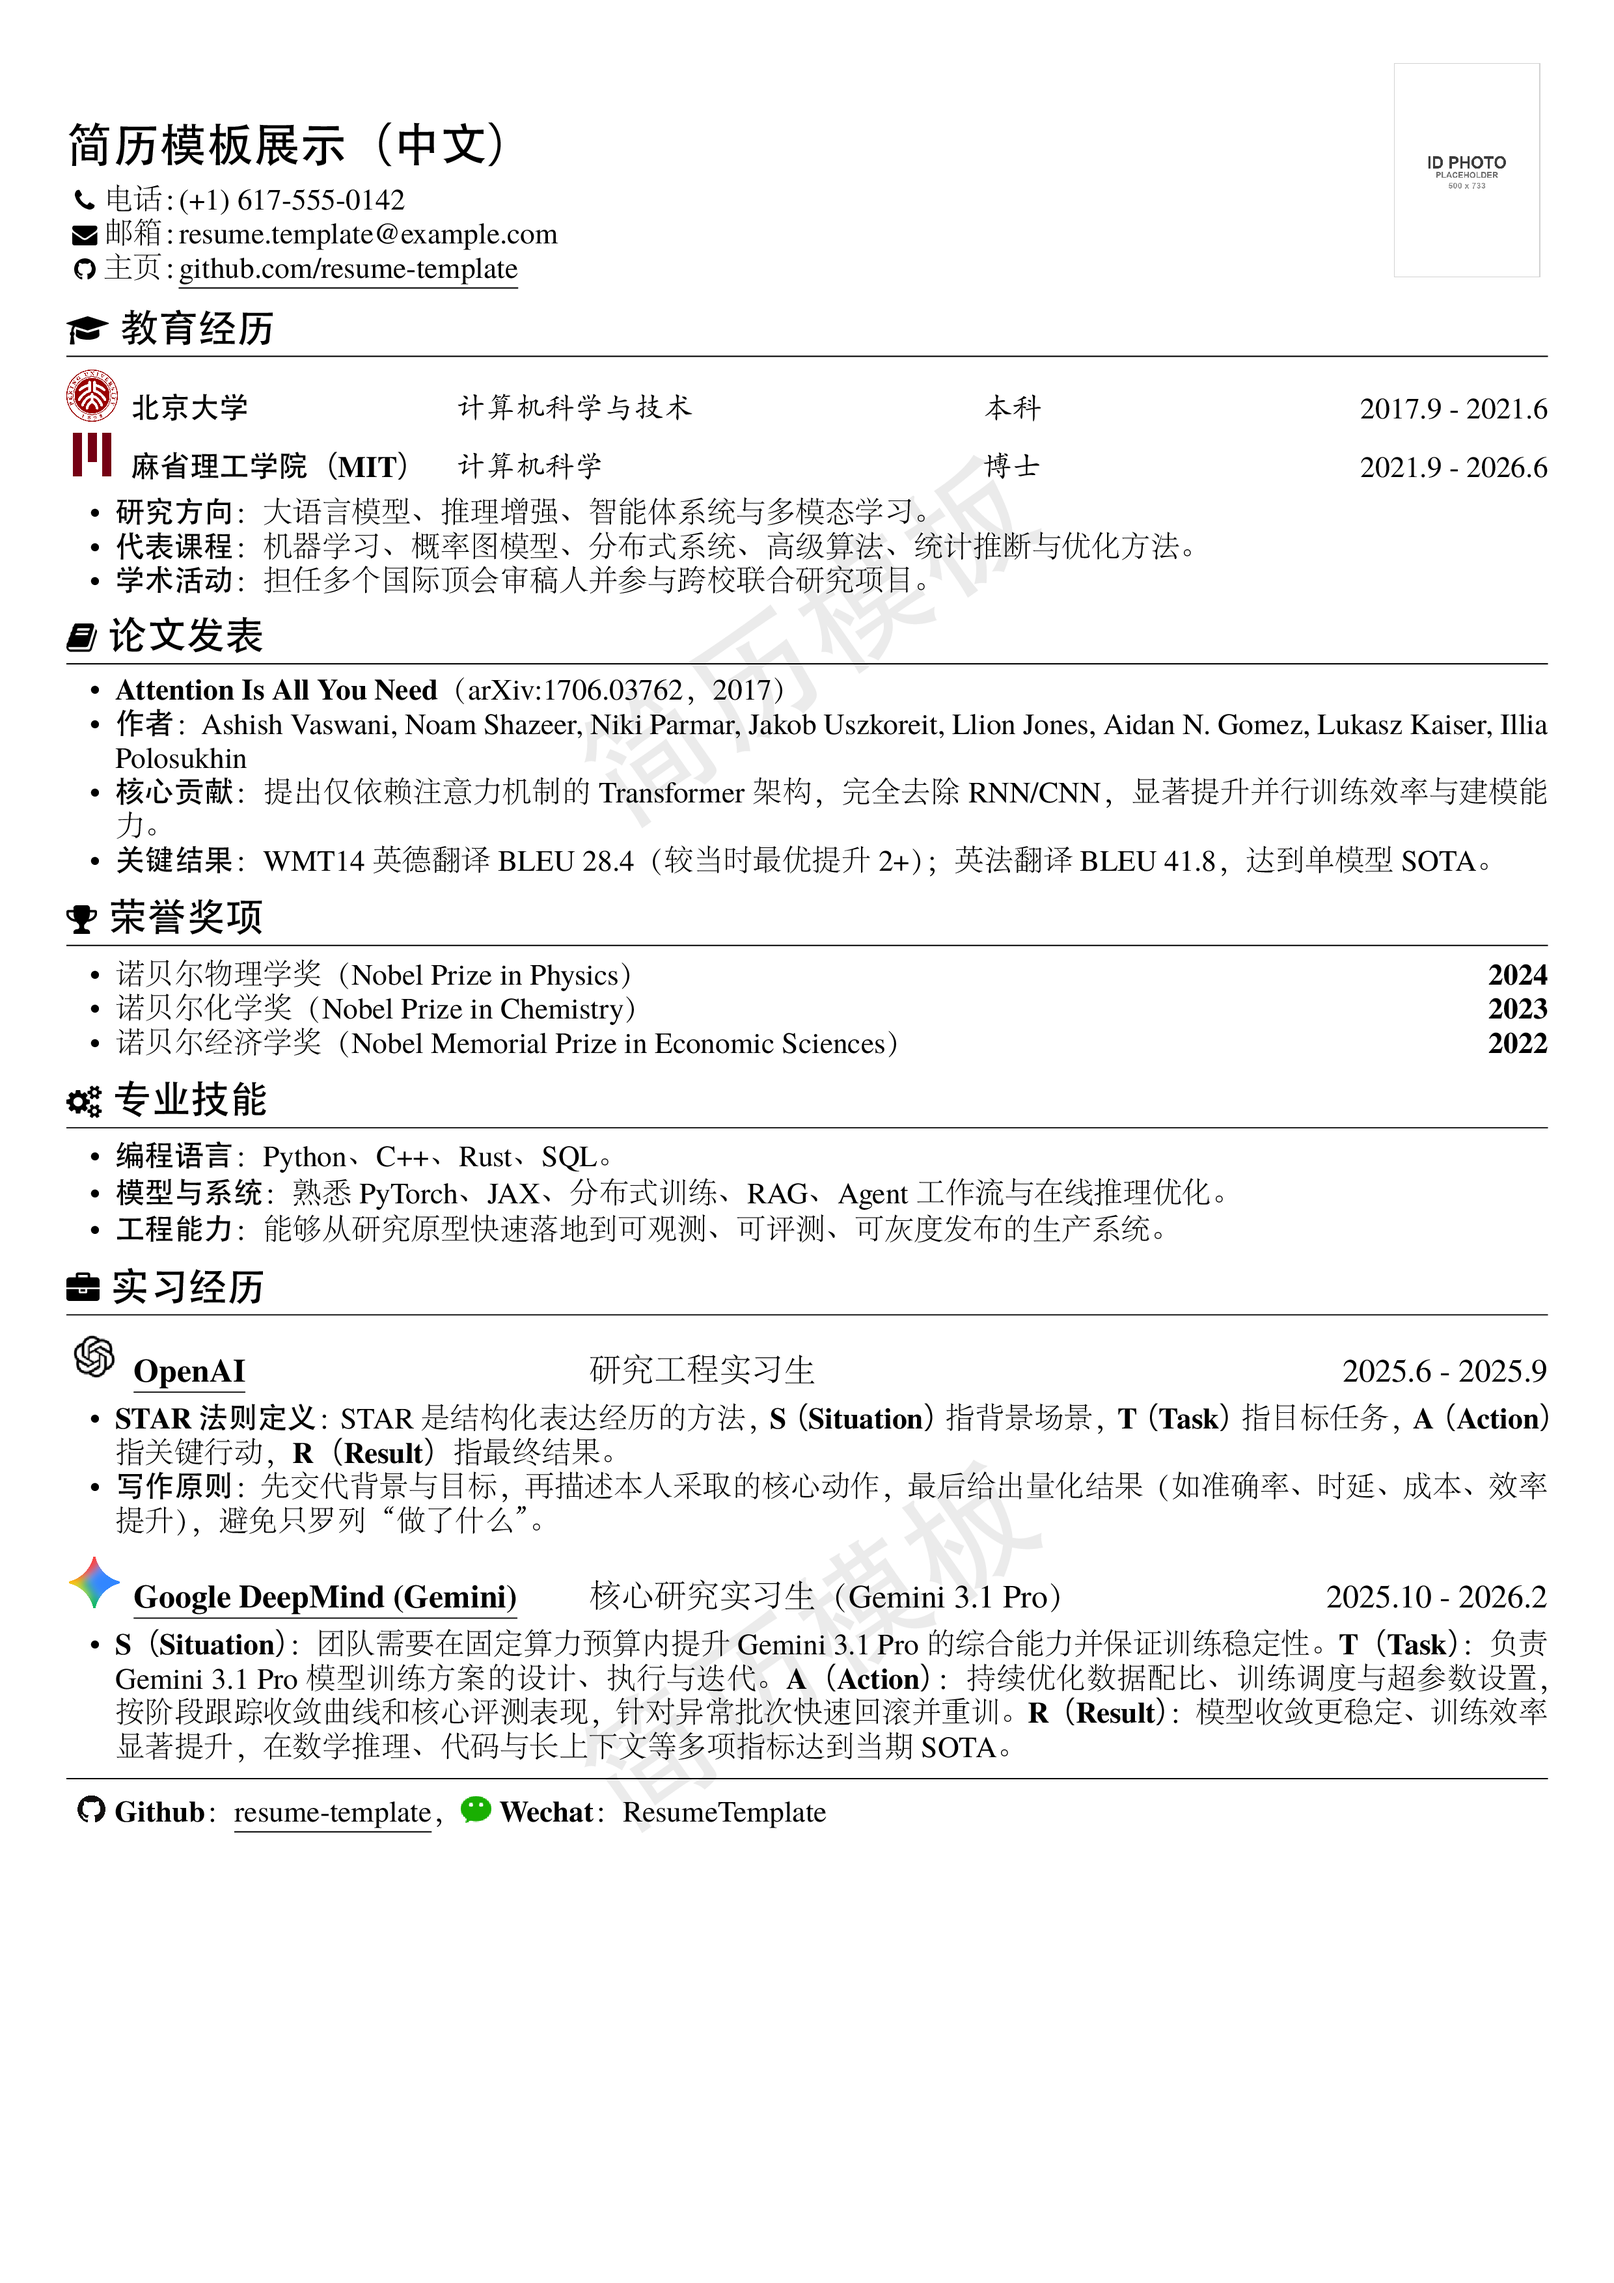
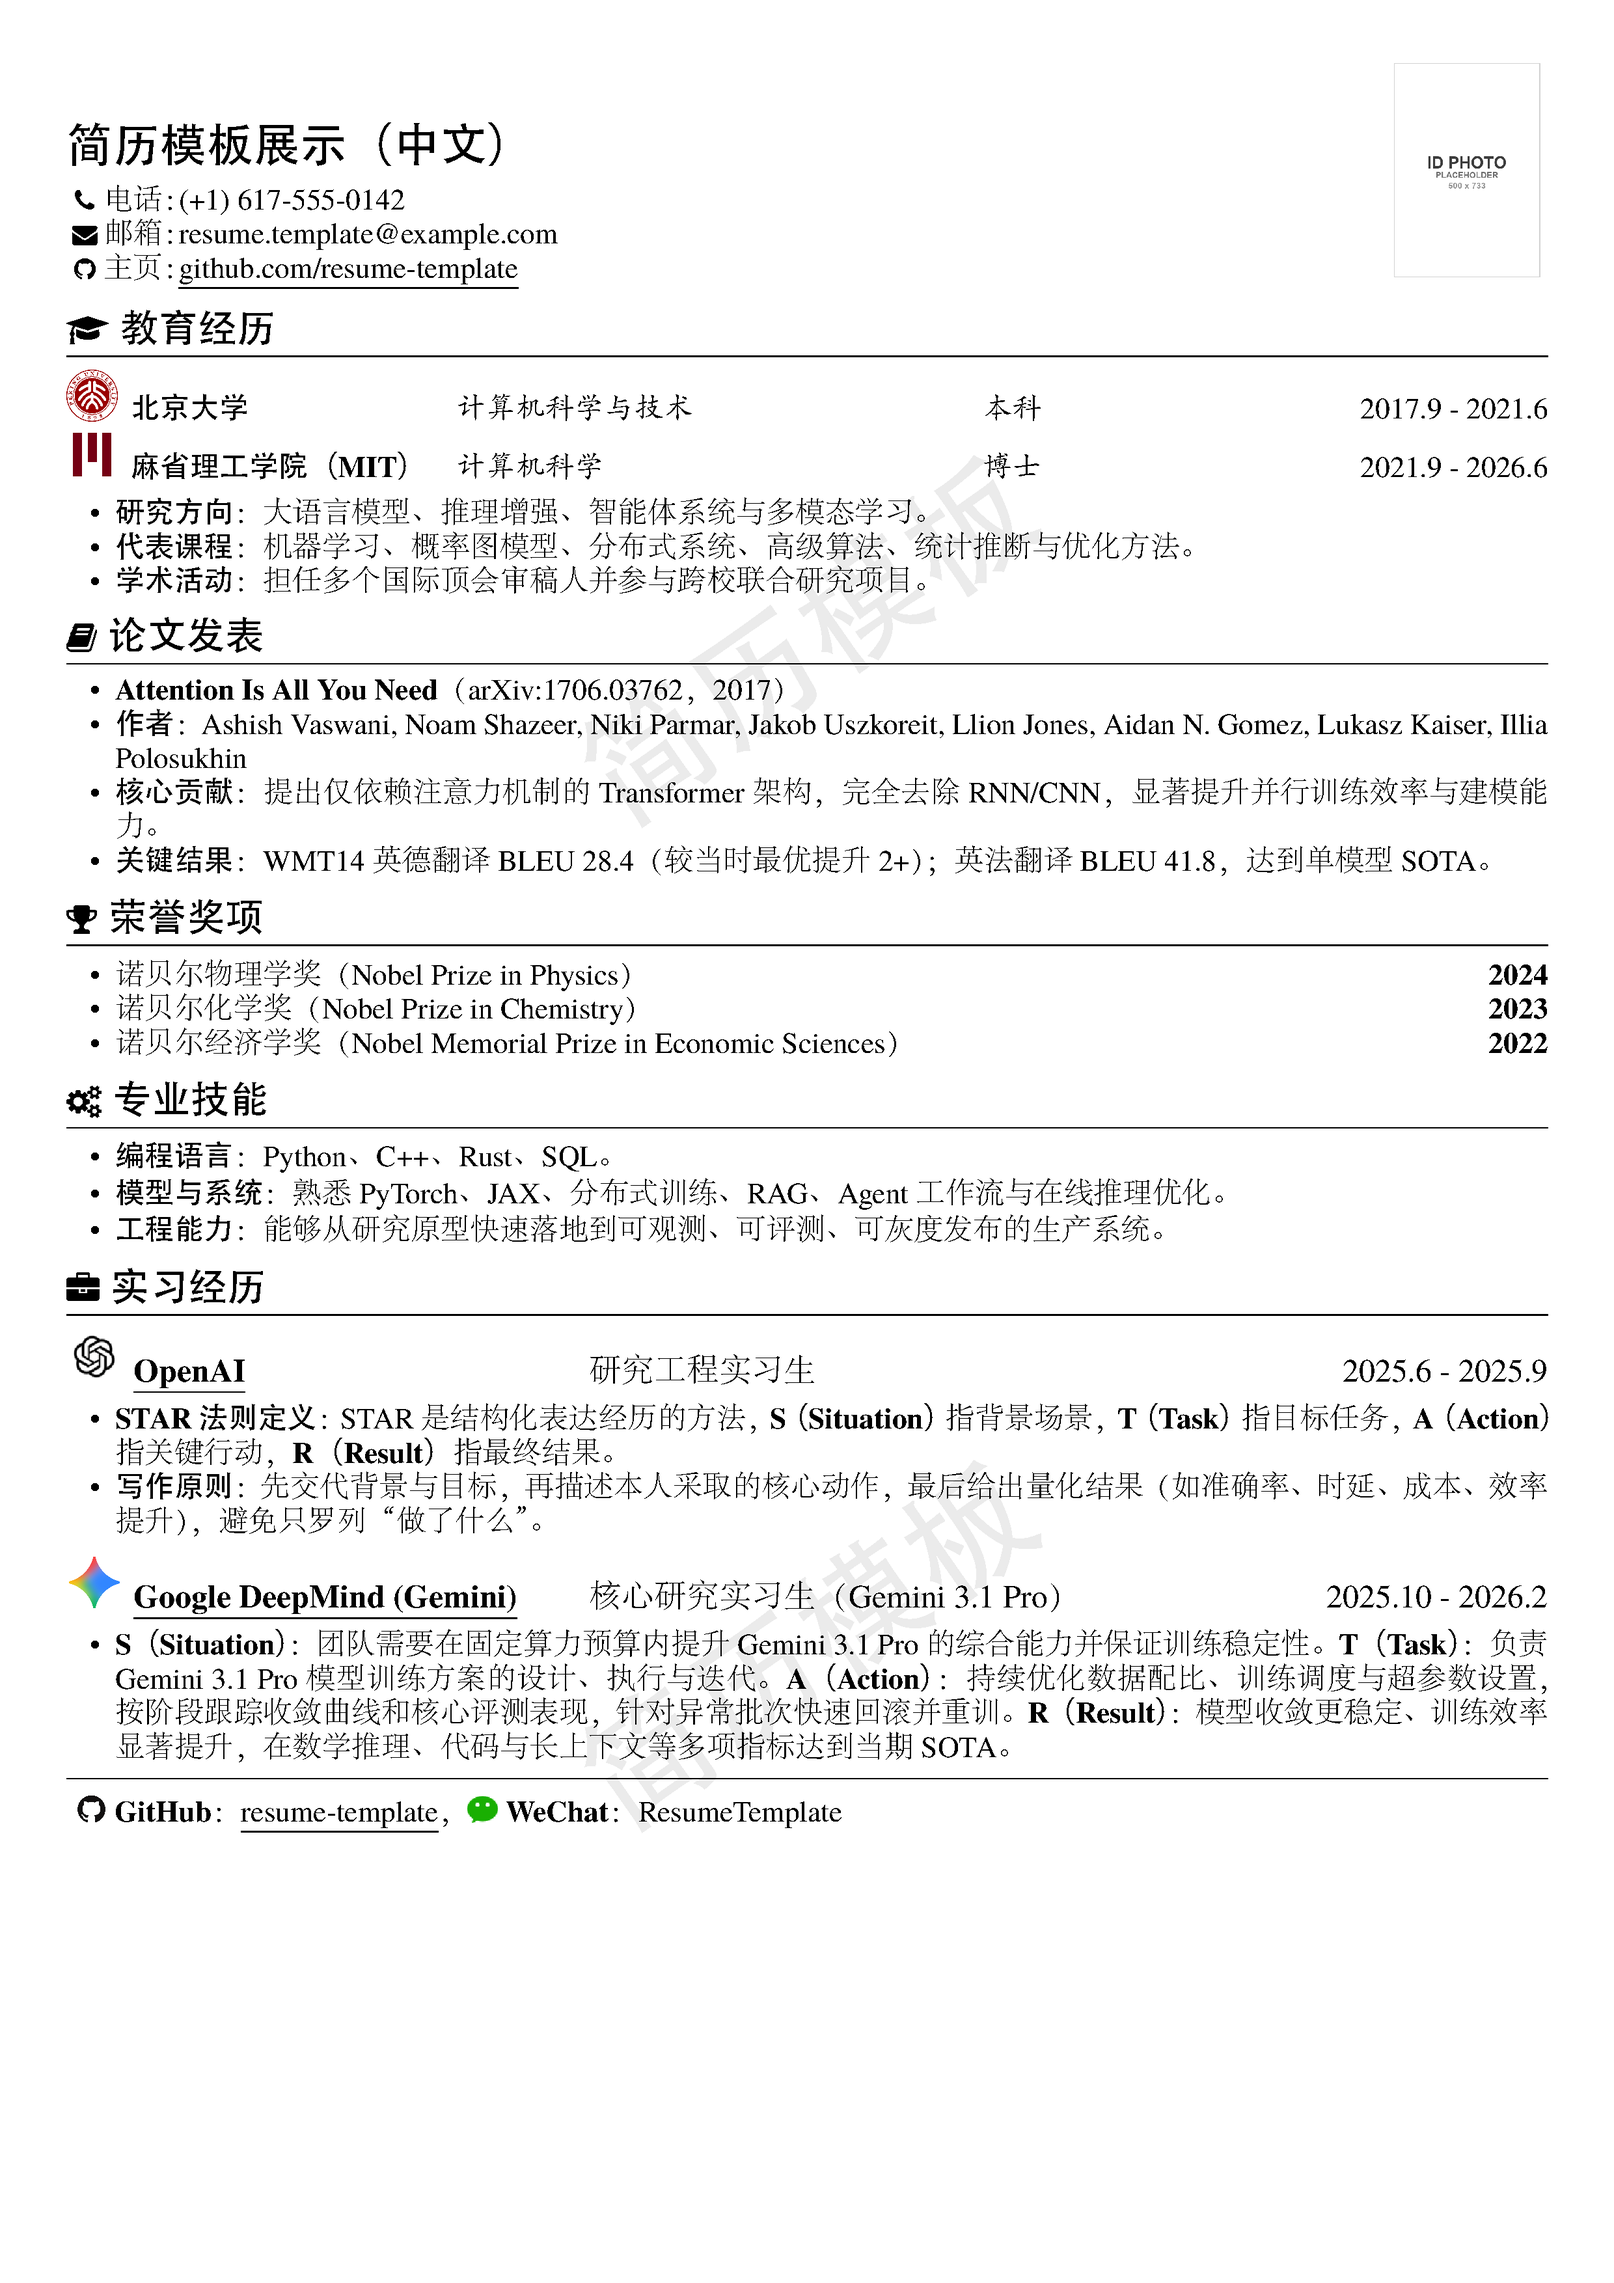
Use aligned education layout and white-background PNG previews

diff --git a/resume-template-zh_CN.tex b/resume-template-zh_CN.tex
@@ -90,7 +90,7 @@
 
 \hrule
 \begin{itemize}[itemindent=-0.50cm]
-  \item[] \inlineicon{github.svg}\textbf{Github}：\href{https://github.com/resume-template}{\underline{resume-template}}，
-          \inlineicon{wechat}\textbf{Wechat}：ResumeTemplate
+  \item[] \inlineicon{github.svg}\textbf{GitHub}：\href{https://github.com/resume-template}{\underline{resume-template}}，
+          \inlineicon{wechat}\textbf{WeChat}：ResumeTemplate
 \end{itemize}
 \end{document}

diff --git a/resume-template-en_US.tex b/resume-template-en_US.tex
@@ -92,7 +92,7 @@
 
 \hrule
 \begin{itemize}[itemindent=-0.50cm]
-  \item[] \inlineicon{github.svg}\textbf{Github}: \href{https://github.com/resume-template}{\underline{resume-template}},
+  \item[] \inlineicon{github.svg}\textbf{GitHub}: \href{https://github.com/resume-template}{\underline{resume-template}},
           \inlineicon{wechat}\textbf{WeChat}: ResumeTemplate
 \end{itemize}
 \end{document}
